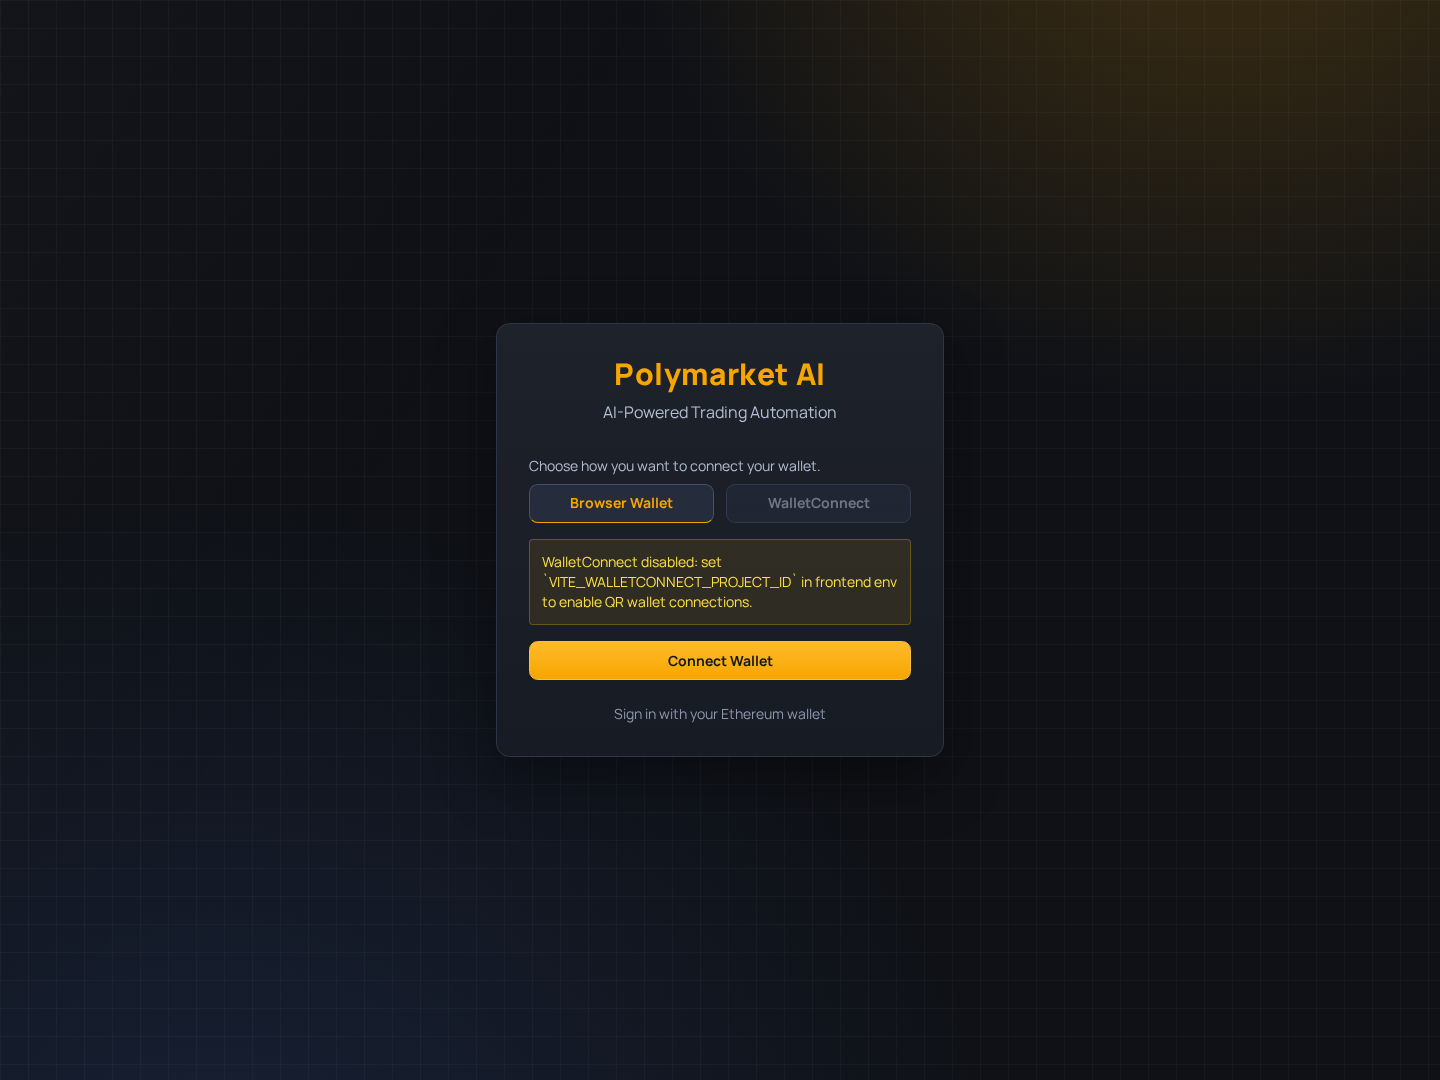
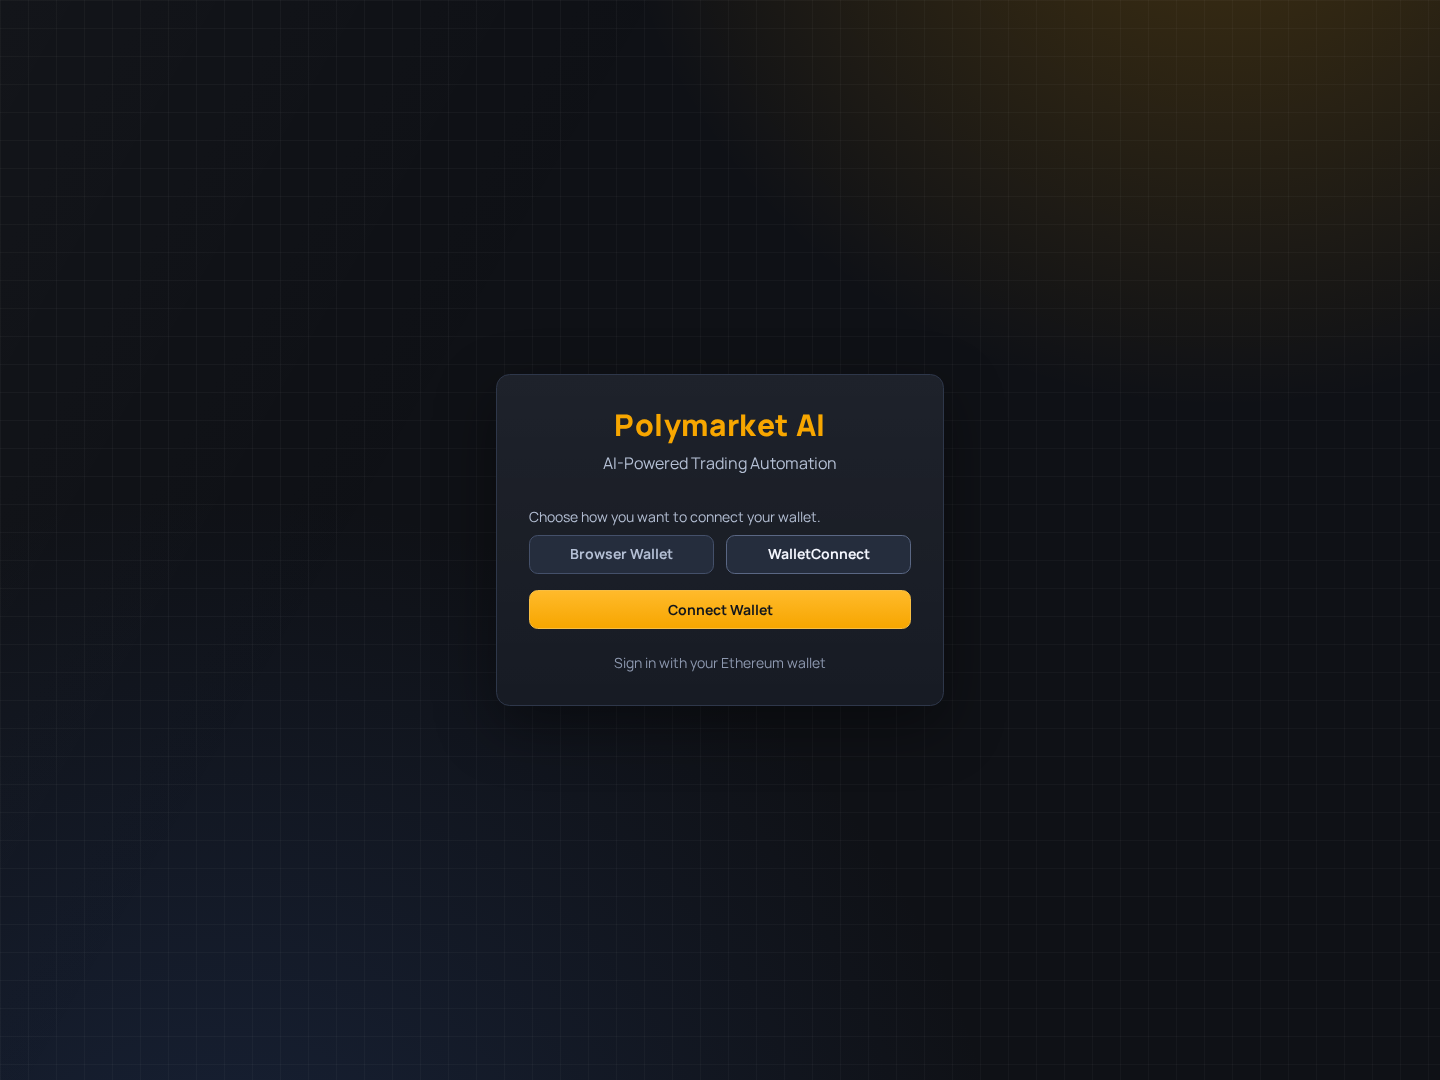
fix(wallet): validate real pairing and refresh connection screenshots

Changed region(s): [[0.3438, 0.3361, 0.6562, 0.6722]]

diff --git a/frontend/e2e/walletconnect/configured.spec.ts b/frontend/e2e/walletconnect/configured.spec.ts
@@ -1,0 +1,64 @@
+import { test, expect } from "@playwright/test";
+import { installGuideFixtures } from "../../scripts/user-guide-fixtures";
+import { address, installWalletConnectFixture } from "./provider-fixture";
+
+async function connect(page: import("@playwright/test").Page) {
+  await page.goto("/login");
+  await page.getByRole("button", { name: "WalletConnect", exact: true }).click();
+  await page.getByRole("button", { name: "Connect Wallet", exact: true }).click();
+}
+
+test("configured WalletConnect selects Polygon and reaches signature review", async ({ page }) => {
+  await installWalletConnectFixture(page);
+  await connect(page);
+  await expect(page.getByText(address, { exact: true })).toBeVisible();
+  await expect(page.getByText("Provider: WalletConnect", { exact: true })).toBeVisible();
+  await expect(page.getByRole("button", { name: "Continue to Sign" })).toBeEnabled();
+  expect(await page.evaluate(() => (window as any).__walletConnectTest.options)).toEqual({
+    configured: true,
+    chains: [137],
+    showQrModal: true,
+  });
+  await page.getByRole("button", { name: "Change Wallet", exact: true }).click();
+  await expect(page.getByRole("button", { name: "Connect Wallet", exact: true })).toBeVisible();
+  expect(await page.evaluate(() => (window as any).__walletConnectTest.disconnects)).toBe(1);
+});
+
+test("rejected pairing disconnects and allows a successful retry", async ({ page }) => {
+  await installWalletConnectFixture(page, "rejected");
+  await connect(page);
+  await expect(page.getByText("Request rejected in wallet.", { exact: true })).toBeVisible();
+  expect(await page.evaluate(() => (window as any).__walletConnectTest.disconnects)).toBe(1);
+  await page.evaluate(() => {
+    (window as any).__walletConnectTest.mode = "ok";
+  });
+  await page.getByRole("button", { name: "Connect Wallet", exact: true }).click();
+  await expect(page.getByText(address, { exact: true })).toBeVisible();
+});
+
+test("empty WalletConnect accounts cannot become a connected session", async ({ page }) => {
+  await installWalletConnectFixture(page, "empty");
+  await connect(page);
+  await expect(
+    page.getByText("No wallet account returned by WalletConnect.", { exact: true }),
+  ).toBeVisible();
+  await expect(page.getByRole("button", { name: "Continue to Sign" })).toHaveCount(0);
+  expect(await page.evaluate(() => (window as any).__walletConnectTest.disconnects)).toBe(1);
+});
+
+// Documentation uses the real application with controlled API responses.
+test("configured wallet login documentation screenshot", async ({ page }) => {
+  await installGuideFixtures(page, true);
+  await page.goto("/login");
+  const walletConnect = page.getByRole("button", { name: "WalletConnect", exact: true });
+  await expect(walletConnect).toBeEnabled();
+  await walletConnect.click();
+  await expect(walletConnect).toHaveClass(/tab-toggle-active/);
+  await expect(page.getByText(/WalletConnect disabled: set/)).toHaveCount(0);
+  if (process.env.UPDATE_WALLET_SCREENSHOT === "1") {
+    await page.screenshot({
+      path: new URL("../../../.github/images/user-guide/app-login.png", import.meta.url).pathname,
+      animations: "disabled",
+    });
+  }
+});

diff --git a/frontend/e2e/walletconnect/live.spec.ts b/frontend/e2e/walletconnect/live.spec.ts
@@ -1,0 +1,57 @@
+import { test, expect } from "@playwright/test";
+import { installGuideFixtures } from "../../scripts/user-guide-fixtures";
+
+// Real SDK + Reown relay; API responses are controlled. No wallet is paired or signed.
+test("real project ID initializes a WalletConnect pairing QR", async ({ page }) => {
+  // A QR can render before the real project and relay have accepted the request.
+  const cdp = await page.context().newCDPSession(page);
+  await cdp.send("Network.enable");
+  const relayRequests = new Set<string>();
+  let relayAccepted = false;
+  cdp.on("Network.webSocketCreated", ({ requestId, url }) => {
+    if (/^wss:\/\/relay\.walletconnect\.(com|org)(?:\/|\?)/.test(url)) relayRequests.add(requestId);
+  });
+  cdp.on("Network.webSocketHandshakeResponseReceived", ({ requestId, response }) => {
+    if (relayRequests.has(requestId) && response.status === 101) relayAccepted = true;
+  });
+  const projectLimits = page.waitForResponse((response) => {
+    const url = new URL(response.url());
+    return url.hostname === "api.web3modal.org" && url.pathname === "/appkit/v1/project-limits";
+  });
+  await page.addInitScript(() => {
+    (window as any).__walletCspViolations = [];
+    document.addEventListener("securitypolicyviolation", (event) => {
+      // Keep diagnostics useful without recording project IDs or pairing URIs.
+      let origin = event.blockedURI;
+      try {
+        origin = new URL(origin).origin;
+      } catch {
+        /* inline/eval directives */
+      }
+      (window as any).__walletCspViolations.push({ directive: event.violatedDirective, origin });
+    });
+  });
+  await installGuideFixtures(page, true);
+  await page.goto("/login");
+  await page.getByRole("button", { name: "WalletConnect", exact: true }).click();
+  await page.getByRole("button", { name: "Connect Wallet", exact: true }).click();
+  await expect(page.locator("w3m-modal")).toBeVisible({ timeout: 60_000 });
+  await expect(page.locator("wui-qr-code")).toBeVisible({ timeout: 60_000 });
+  await expect(page.locator("wui-qr-code")).toHaveAttribute("uri", /^wc:/);
+  await expect(page.getByRole("button", { name: "Continue to Sign" })).toHaveCount(0);
+  expect((await projectLimits).status()).toBe(200);
+  await expect
+    .poll(() => relayAccepted, {
+      message: "Reown relay accepts the project WebSocket handshake",
+      timeout: 30_000,
+    })
+    .toBe(true);
+  expect(await page.evaluate(() => (window as any).__walletCspViolations)).toEqual([]);
+  if (process.env.UPDATE_WALLET_SCREENSHOT === "1") {
+    await page.screenshot({
+      path: new URL("../../../.github/images/user-guide/app-walletconnect-qr.png", import.meta.url)
+        .pathname,
+      animations: "disabled",
+    });
+  }
+});

diff --git a/frontend/vite.config.ts b/frontend/vite.config.ts
@@ -38,18 +38,25 @@ export default defineConfig(({ command, mode }) => {
     // Dev-only visibility of the origin the client will use.
     console.warn(`[vite.config] using VITE_API_URL: ${bakedApiUrl}`);
   }
-  // Only allow-list the configured origin when one is actually set. With an
-  // empty VITE_API_URL the app talks to its own origin via nginx, so connect-src
-  // must be exactly 'self' — never a hardcoded localhost fallback.
+  // API traffic stays same-origin unless an explicit API origin is supplied.
   const cspConnectSrc =
     bakedApiUrl && /^https?:\/\//.test(bakedApiUrl) ? ["'self'", bakedApiUrl].join(" ") : "'self'";
+  // WalletConnect performs browser HTTPS/WSS requests even behind same-origin nginx.
+  // Include these only when the build enables the public connector.
+  const walletConnectEnabled = Boolean(
+    (process.env.VITE_WALLETCONNECT_PROJECT_ID ?? env.VITE_WALLETCONNECT_PROJECT_ID ?? "").trim(),
+  );
+  const walletConnectOrigins = walletConnectEnabled
+    ? " https://*.walletconnect.com wss://*.walletconnect.com https://*.walletconnect.org wss://*.walletconnect.org https://*.reown.com https://api.web3modal.org https://polygon-rpc.com"
+    : "";
   const productionCsp = [
     "default-src 'self'",
     "script-src 'self'",
-    "style-src 'self' 'unsafe-inline'",
+    "style-src 'self' 'unsafe-inline' https://fonts.googleapis.com",
     "img-src 'self' data: https:",
-    "font-src 'self' data:",
-    `connect-src ${cspConnectSrc}`,
+    `font-src 'self' data: https://fonts.gstatic.com${walletConnectEnabled ? " https://fonts.reown.com" : ""}`,
+    `frame-src 'self'${walletConnectEnabled ? " https://verify.walletconnect.org https://verify.walletconnect.com" : ""}`,
+    `connect-src ${cspConnectSrc}${walletConnectOrigins}`,
     "object-src 'none'",
     // frame-ancestors is ignored when delivered via <meta>; nginx.conf sets
     // X-Frame-Options: DENY. Keep it here for documentation value only.

diff --git a/frontend/playwright.walletconnect.config.ts b/frontend/playwright.walletconnect.config.ts
@@ -1,0 +1,58 @@
+import { defineConfig, devices } from "@playwright/test";
+
+const live = process.env.WALLETCONNECT_LIVE_CANARY === "1";
+const projectId = process.env.VITE_WALLETCONNECT_PROJECT_ID?.trim();
+if (live && !/^[a-f0-9]{32}$/i.test(projectId ?? "")) {
+  throw new Error(
+    "Set the repository secret VITE_WALLETCONNECT_PROJECT_ID before the live canary.",
+  );
+}
+
+export default defineConfig({
+  testDir: "./e2e/walletconnect",
+  workers: 1,
+  timeout: 90_000,
+  expect: { timeout: 20_000 },
+  reporter: "list",
+  use: { ...devices["Desktop Chrome"], trace: "retain-on-failure", screenshot: "only-on-failure" },
+  projects: [
+    {
+      name: "configured",
+      testMatch: live ? "live.spec.ts" : "configured.spec.ts",
+      use: { baseURL: "http://127.0.0.1:5190" },
+    },
+    ...(!live
+      ? [
+          {
+            name: "missing",
+            testMatch: "missing.spec.ts",
+            use: { baseURL: "http://127.0.0.1:5189" },
+          },
+        ]
+      : []),
+  ],
+  webServer: [
+    {
+      command: live
+        ? "npm run build && node_modules/.bin/vite preview --host 127.0.0.1 --port 5190 --strictPort"
+        : "node_modules/.bin/vite --host 127.0.0.1 --port 5190 --strictPort",
+      timeout: 180_000,
+      url: "http://127.0.0.1:5190",
+      reuseExistingServer: false,
+      env: {
+        VITE_API_URL: "",
+        VITE_WALLETCONNECT_PROJECT_ID: projectId || "0123456789abcdef0123456789abcdef",
+      },
+    },
+    ...(!live
+      ? [
+          {
+            command: "node_modules/.bin/vite --host 127.0.0.1 --port 5189 --strictPort",
+            url: "http://127.0.0.1:5189",
+            reuseExistingServer: false,
+            env: { VITE_API_URL: "", VITE_WALLETCONNECT_PROJECT_ID: "" },
+          },
+        ]
+      : []),
+  ],
+});

diff --git a/frontend/e2e/walletconnect/provider-fixture.ts b/frontend/e2e/walletconnect/provider-fixture.ts
@@ -1,0 +1,34 @@
+import type { Page } from "@playwright/test";
+import { installMockWallet } from "../fixtures/base";
+import { installGuideFixtures } from "../../scripts/user-guide-fixtures";
+
+export const address = "0x" + "11".repeat(20);
+export async function installWalletConnectFixture(
+  page: Page,
+  mode: "ok" | "rejected" | "empty" = "ok",
+) {
+  await installGuideFixtures(page, true);
+  await installMockWallet(page, { address });
+  await page.addInitScript((value) => {
+    (window as any).__walletConnectTest = { mode: value, disconnects: 0, options: null };
+  }, mode);
+  // Replace only the external SDK boundary, never the app's connector or login code.
+  // This Vite development-module route is intentionally test-only.
+  await page.route(
+    /\/node_modules\/\.vite\/deps\/@walletconnect_ethereum-provider\.js(?:\?.*)?$/,
+    (route) =>
+      route.fulfill({
+        contentType: "application/javascript",
+        body: `export default { async init(options) {
+      const state = window.__walletConnectTest;
+      state.options = { configured: Boolean(options.projectId), chains: options.chains, showQrModal: options.showQrModal };
+      const provider = window.ethereum;
+      const request = provider.request.bind(provider);
+      provider.request = args => state.mode === "empty" && args.method === "eth_accounts" ? Promise.resolve([]) : request(args);
+      provider.connect = async () => { if (state.mode === "rejected") throw { code: 4001 }; };
+      provider.disconnect = async () => { state.disconnects++; };
+      return provider;
+    }};`,
+      }),
+  );
+}

diff --git a/frontend/e2e/walletconnect/missing.spec.ts b/frontend/e2e/walletconnect/missing.spec.ts
@@ -1,0 +1,14 @@
+import { test, expect } from "@playwright/test";
+import { installGuideFixtures } from "../../scripts/user-guide-fixtures";
+
+test("missing project ID disables WalletConnect while retaining browser-wallet login", async ({
+  page,
+}) => {
+  await installGuideFixtures(page, true);
+  await page.goto("/login");
+  await expect(page.getByRole("button", { name: "WalletConnect", exact: true })).toBeDisabled();
+  await expect(page.getByText(/WalletConnect disabled: set/)).toBeVisible();
+  await expect(page.getByRole("button", { name: "Browser Wallet", exact: true })).toBeEnabled();
+  await page.getByRole("button", { name: "Connect Wallet", exact: true }).click();
+  await expect(page.getByText(/No browser wallet detected/)).toBeVisible();
+});

diff --git a/frontend/scripts/capture-app-guide.spec.ts b/frontend/scripts/capture-app-guide.spec.ts
@@ -37,7 +37,9 @@ for (const [name, url, heading] of screens) {
       await expect(page.getByRole("button", { name: "WalletConnect", exact: true })).toBeEnabled();
       await expect(page.getByText(/WalletConnect disabled: set/)).toHaveCount(0);
       await page.getByRole("button", { name: "WalletConnect", exact: true }).click();
-      await expect(page.getByRole("button", { name: "WalletConnect", exact: true })).toHaveClass(/tab-toggle-active/);
+      await expect(page.getByRole("button", { name: "WalletConnect", exact: true })).toHaveClass(
+        /tab-toggle-active/,
+      );
     }
     if (name === "ask-ai")
       await page.getByRole("button", { name: "Open palette", exact: true }).click();

diff --git a/frontend/e2e/auth/login.spec.ts b/frontend/e2e/auth/login.spec.ts
@@ -24,7 +24,9 @@ test.describe("Login page", () => {
     await expect(page.getByRole("button", { name: "WalletConnect", exact: true })).toBeEnabled();
     await expect(page.getByText(/WalletConnect disabled: set/)).toHaveCount(0);
     await page.getByRole("button", { name: "WalletConnect", exact: true }).click();
-    await expect(page.getByRole("button", { name: "WalletConnect", exact: true })).toHaveClass(/tab-toggle-active/);
+    await expect(page.getByRole("button", { name: "WalletConnect", exact: true })).toHaveClass(
+      /tab-toggle-active/,
+    );
   });
 
   test("reports a missing browser wallet", async ({ page }) => {

diff --git a/README.md b/README.md
@@ -56,10 +56,34 @@ results do not approve an order. Legacy paper/backtest metrics remain unverified
 
 ![Wallet sign-in screen with WalletConnect selected](.github/images/user-guide/app-login.png)
 
-The screenshot is generated by the Playwright user-guide capture test. To refresh
-it from the actual running UI (rather than a simulated illustration), execute
-`npx playwright test --config playwright.user-guide.config.ts --grep "capture login"`
-from `frontend/` with the configured frontend and fixture backend available.
+Choose **WalletConnect**, click **Connect Wallet**, and scan the pairing QR with
+your wallet app. Then approve the connection and the separate sign-in signature.
+
+![WalletConnect pairing QR from the application](.github/images/user-guide/app-walletconnect-qr.png)
+
+These screenshots come from the running application. The QR shown above is an
+expired test pairing; generate a new QR in your own session.
+
+Run `npm run test:walletconnect` from `frontend/` for browser regression tests
+(success, rejection/retry, empty accounts, and missing configuration). The tests
+replace the external SDK boundary and use an explicit fixture ID; they do not
+prove the real relay accepts a project ID.
+
+To check the real SDK and relay against the **production build**, set
+`VITE_WALLETCONNECT_PROJECT_ID` in your environment and run:
+
+```bash
+WALLETCONNECT_LIVE_CANARY=1 npm run test:walletconnect
+```
+
+The live test requires a real 32-character project ID, checks a pairing QR and
+successful project validation and a relay WebSocket handshake, and rejects browser security-policy violations;
+it does not pair a wallet, sign a message, or submit a transaction. Add
+`UPDATE_WALLET_SCREENSHOT=1` to refresh the QR screenshot. Use the same update
+flag without the live flag to refresh the login screenshot. CI offers the real
+test as the opt-in `walletconnect_live_canary` workflow-dispatch input, using
+the repository Actions secret. In Reown, permit your deployed origin and local
+test origin `http://127.0.0.1:5190` if you use an origin allowlist.
 
 ### Dashboard and notifications
 
